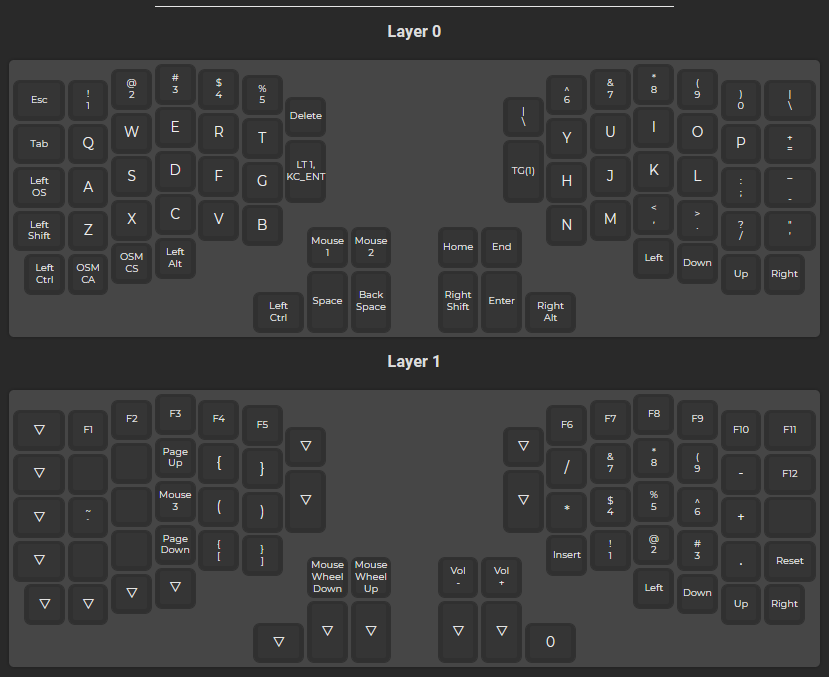
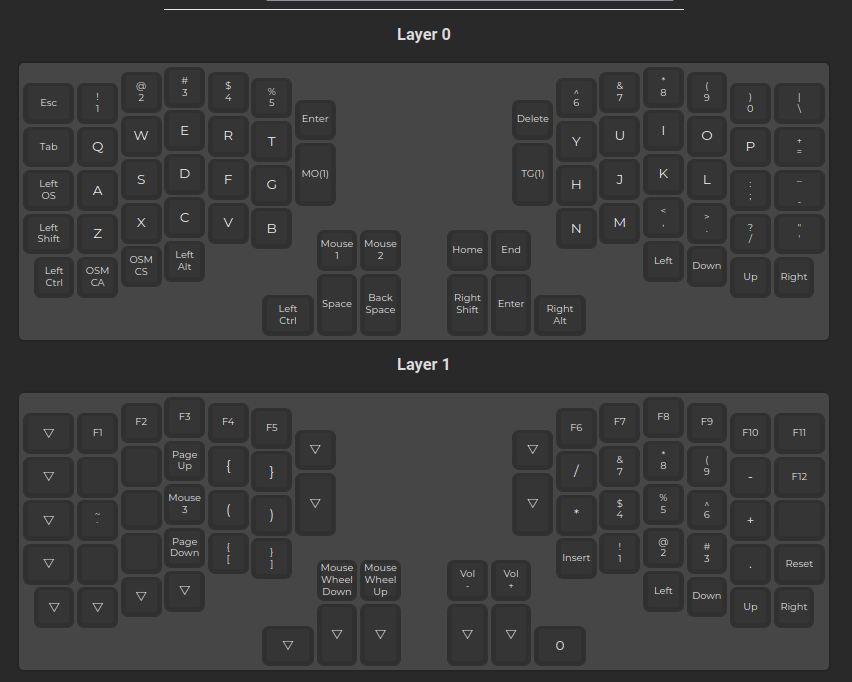
One more modification

diff --git a/keymap.c b/keymap.c
@@ -9,7 +9,7 @@
 
 
 const uint16_t PROGMEM keymaps[][MATRIX_ROWS][MATRIX_COLS] = {
-	[0] = LAYOUT(KC_ESC, KC_1, KC_2, KC_3, KC_4, KC_5, KC_6, KC_7, KC_8, KC_9, KC_0, KC_NUBS, KC_TAB, KC_Q, KC_W, KC_E, KC_R, KC_T, KC_DEL, KC_NUHS, KC_Y, KC_U, KC_I, KC_O, KC_P, KC_EQL, KC_LGUI, KC_A, KC_S, KC_D, KC_F, KC_G, LT(1,KC_ENT), TG(1), KC_H, KC_J, KC_K, KC_L, KC_SCLN, KC_MINS, KC_LSFT, KC_Z, KC_X, KC_C, KC_V, KC_B, KC_BTN1, KC_BTN2, KC_HOME, KC_END, KC_N, KC_M, KC_COMM, KC_DOT, KC_SLSH, KC_QUOT, KC_LCTL, OSM(MOD_LCTL|MOD_LALT), OSM(MOD_LCTL|MOD_LSFT), KC_LALT, KC_LCTL, KC_SPC, KC_BSPC, KC_RSFT, KC_ENT, KC_RALT, KC_LEFT, KC_DOWN, KC_UP, KC_RGHT),
+	[0] = LAYOUT(KC_ESC, KC_1, KC_2, KC_3, KC_4, KC_5, KC_6, KC_7, KC_8, KC_9, KC_0, KC_NUHS, KC_TAB, KC_Q, KC_W, KC_E, KC_R, KC_T, KC_ENT, KC_DEL, KC_Y, KC_U, KC_I, KC_O, KC_P, KC_EQL, KC_LGUI, KC_A, KC_S, KC_D, KC_F, KC_G, MO(1), TG(1), KC_H, KC_J, KC_K, KC_L, KC_SCLN, KC_MINS, KC_LSFT, KC_Z, KC_X, KC_C, KC_V, KC_B, KC_BTN1, KC_BTN2, KC_HOME, KC_END, KC_N, KC_M, KC_COMM, KC_DOT, KC_SLSH, KC_QUOT, KC_LCTL, OSM(MOD_LCTL|MOD_LALT), OSM(MOD_LCTL|MOD_LSFT), KC_LALT, KC_LCTL, KC_SPC, KC_BSPC, KC_RSFT, KC_ENT, KC_RALT, KC_LEFT, KC_DOWN, KC_UP, KC_RGHT),
 	[1] = LAYOUT(KC_TRNS, KC_F1, KC_F2, KC_F3, KC_F4, KC_F5, KC_F6, KC_F7, KC_F8, KC_F9, KC_F10, KC_F11, KC_TRNS, KC_NO, KC_NO, KC_PGUP, KC_LCBR, KC_RCBR, KC_TRNS, KC_TRNS, KC_PSLS, KC_7, KC_8, KC_9, KC_PMNS, KC_F12, KC_TRNS, KC_GRV, KC_NO, KC_BTN3, KC_LPRN, KC_RPRN, KC_TRNS, KC_TRNS, KC_PAST, KC_4, KC_5, KC_6, KC_PPLS, KC_NO, KC_TRNS, KC_NO, KC_NO, KC_PGDN, KC_LBRC, KC_RBRC, KC_WH_D, KC_WH_U, KC_VOLD, KC_VOLU, KC_INS, KC_1, KC_2, KC_3, KC_PDOT, QK_BOOT, KC_TRNS, KC_TRNS, KC_TRNS, KC_TRNS, KC_TRNS, KC_TRNS, KC_TRNS, KC_TRNS, KC_TRNS, KC_P0, KC_LEFT, KC_DOWN, KC_UP, KC_RGHT)
 };
 
